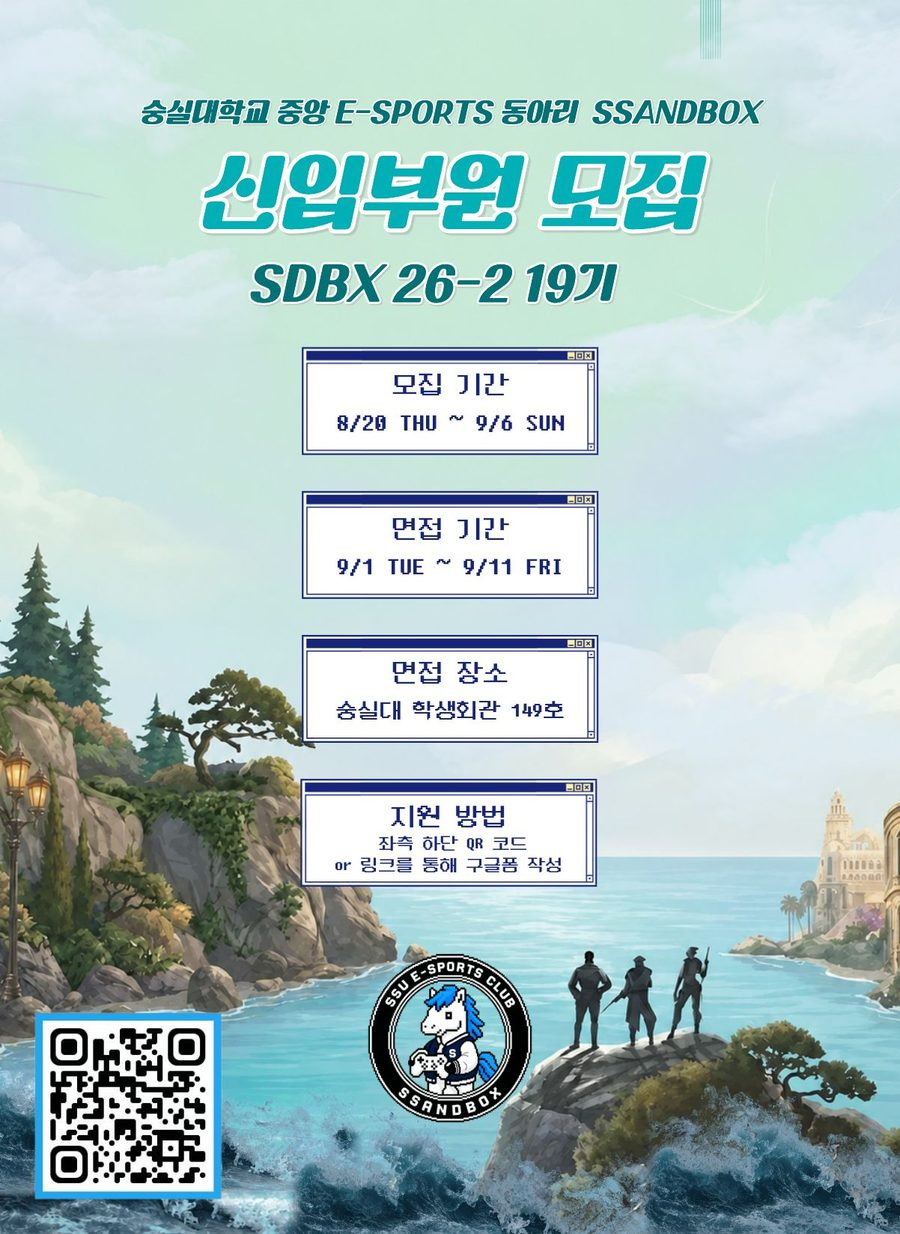
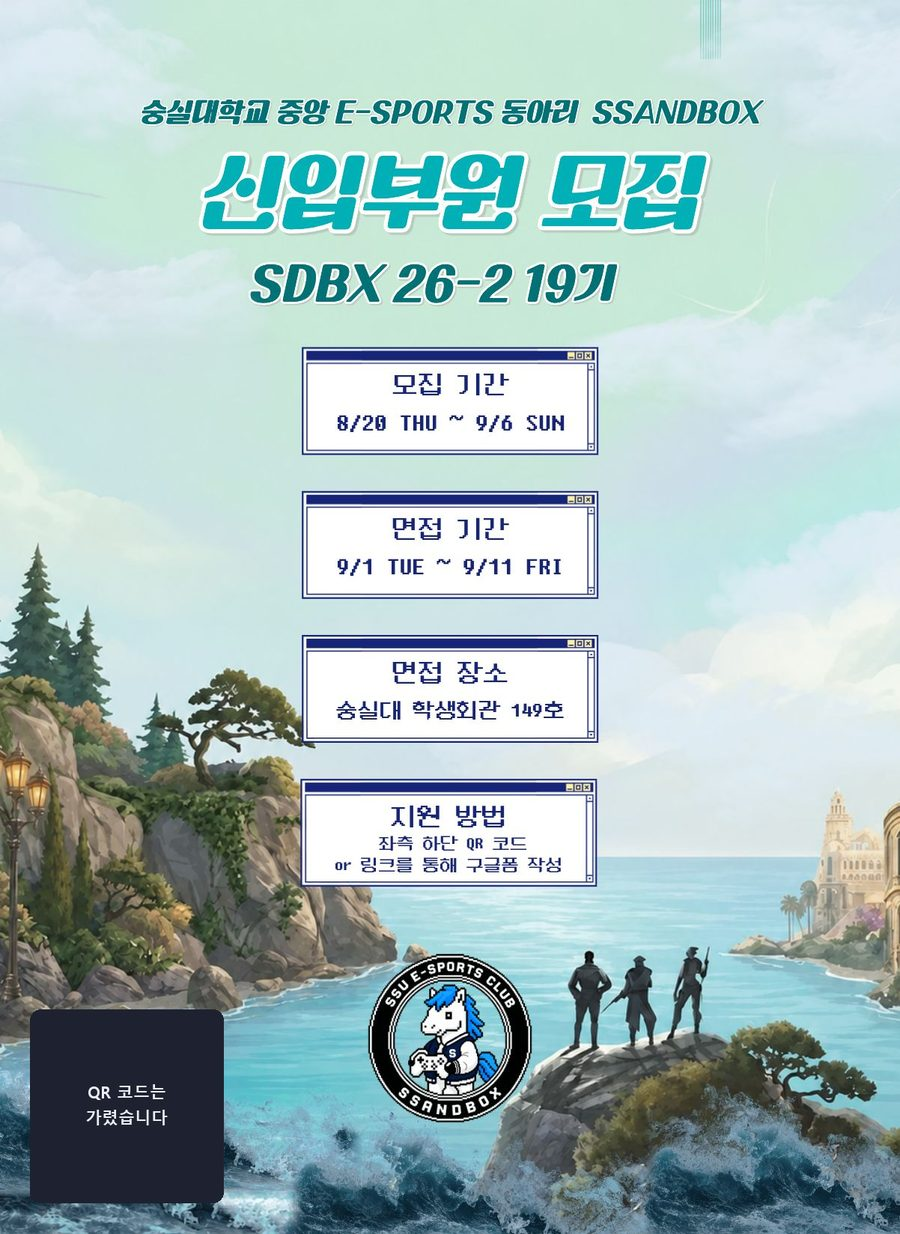
포스터의 QR 코드도 가림, README 포스터 크기 축소

Changed region(s): [[0.0311, 0.8006, 0.2489, 0.9854]]

diff --git a/index.html b/index.html
@@ -176,8 +176,9 @@
 <p>Retargeting: vert_control 1.0 → 0.8로 Corner 부근 과보정 방지</p>
 <p>Hierman으로 Template 생성 후 Corexec으로 Recipe를 적용해 OPC 수행, Contour simulation 후 CD 측정</p></div></section><section class="shs"><h3>문제 해결 과정</h3><div class="shb"><p>파라미터마다 영향을 주는 영역이 달라, 변경 항목별로 예상 결과를 먼저 세운 뒤 실제 측정값과 대조했습니다.</p>
 <p>두 recipe의 Contour를 같은 위치에서 측정해 Segment 세분화 → Corner·Edge 보정 정밀도 향상이라는 가설을 확인했습니다.</p></div></section><section class="shs"><h3>결과</h3><div class="shb res"><p>Split recipe 적용으로 <strong>Corner Rounding 24.39nm → 19.1nm</strong>, Mask–Contour CD 차이 5nm → 3.5nm, Contour narrowing 1.5nm → 1nm로 개선됐고 Line Edge Roughness도 감소했습니다.</p></div></section><section class="shs"><h3>증빙 자료</h3><div class="shev"><a class="btn" href="https://gamedh823-cmd.github.io/portfolio/projects/lithography-opc-pbl/lithography_pbl.pdf" target="_blank" rel="noopener">PBL 과제 발표자료 (PDF)</a><a class="btn ghost" href="https://github.com/gamedh823-cmd/portfolio/blob/main/projects/lithography-opc-pbl/README.md" target="_blank" rel="noopener">GitHub README</a></div></section></template>
-<template id="t-club-design"><div class="shtags"><span class="tag">포스터</span><span class="tag">대회 UI</span><span class="tag">로고</span><span class="tag">바이브코딩</span></div><section class="shs"><h3>무엇을</h3><div class="shb"><p>학교 중앙 E-SPORTS 동아리의 홍보국장으로서, 신입부원 모집과 대표팀 모집 포스터, 개강총회 표지 및 자료, 대학 교류전 대진 화면, 자체 리그 로고(SFL, SOL) 등을 만들었습니다.</p></div></section><section class="shs"><h3>어떻게</h3><div class="shb"><p>바이브코딩, 즉 AI 도구에 원하는 결과를 말로 지시해 만드는 방식으로 만든 것이 많습니다.</p></div></section><section class="shs"><h3>작업물</h3><div class="shb"><div class="gal wide"><figure><img src="./assets/club/opening-ceremony-wide.jpg" alt="개강총회 표지 (2026.09.11)" loading="lazy"><figcaption>개강총회 표지 (2026.09.11)</figcaption></figure><figure><img src="./assets/club/ow-exchange-thumb.jpg" alt="오버워치 대학교류전 대진 화면 (6개 대학 동아리)" loading="lazy"><figcaption>오버워치 대학교류전 대진 화면 (6개 대학 동아리)</figcaption></figure></div><div class="gal"><figure><img src="./assets/club/recruit-poster.jpg" alt="신입부원 모집 포스터 (SDBX 26-2 19기)" loading="lazy"><figcaption>신입부원 모집 포스터 (SDBX 26-2 19기)</figcaption></figure><figure><img src="./assets/club/lol-team-poster.jpg" alt="리그 오브 레전드 대표팀 모집 포스터" loading="lazy"><figcaption>리그 오브 레전드 대표팀 모집 포스터</figcaption></figure><figure><img src="./assets/club/valorant-team-poster.jpg" alt="발로란트 대표팀 모집 포스터" loading="lazy"><figcaption>발로란트 대표팀 모집 포스터</figcaption></figure><figure><img src="./assets/club/overwatch-team-poster.jpg" alt="오버워치 대표팀 모집 포스터" loading="lazy"><figcaption>오버워치 대표팀 모집 포스터</figcaption></figure></div><div class="gal pair"><figure><img src="./assets/club/logo-sfl.jpg" alt="자체 리그 로고 SFL (SSANDBOX Frontier League)" loading="lazy"><figcaption>자체 리그 로고 SFL (SSANDBOX Frontier League)</figcaption></figure><figure><img src="./assets/club/logo-sol.jpg" alt="자체 리그 로고 SOL (SSANDBOX Overwatch League)" loading="lazy"><figcaption>자체 리그 로고 SOL (SSANDBOX Overwatch League)</figcaption></figure></div><p style="margin-top:14px">포스터 하단의 문의 연락처는 개인정보라 가려서 올렸습니다.</p></div></section></template>
+<template id="t-club-design"><div class="shtags"><span class="tag">포스터</span><span class="tag">대회 UI</span><span class="tag">로고</span><span class="tag">바이브코딩</span></div><section class="shs"><h3>무엇을</h3><div class="shb"><p>학교 중앙 E-SPORTS 동아리의 홍보국장으로서, 신입부원 모집과 대표팀 모집 포스터, 개강총회 표지 및 자료, 대학 교류전 대진 화면, 자체 리그 로고(SFL, SOL) 등을 만들었습니다.</p></div></section><section class="shs"><h3>어떻게</h3><div class="shb"><p>바이브코딩, 즉 AI 도구에 원하는 결과를 말로 지시해 만드는 방식으로 만든 것이 많습니다.</p></div></section><section class="shs"><h3>작업물</h3><div class="shb"><div class="gal wide"><figure><img src="./assets/club/opening-ceremony-wide.jpg" alt="개강총회 표지 (2026.09.11)" loading="lazy"><figcaption>개강총회 표지 (2026.09.11)</figcaption></figure><figure><img src="./assets/club/ow-exchange-thumb.jpg" alt="오버워치 대학교류전 대진 화면 (6개 대학 동아리)" loading="lazy"><figcaption>오버워치 대학교류전 대진 화면 (6개 대학 동아리)</figcaption></figure></div><div class="gal"><figure><img src="./assets/club/recruit-poster.jpg" alt="신입부원 모집 포스터 (SDBX 26-2 19기)" loading="lazy"><figcaption>신입부원 모집 포스터 (SDBX 26-2 19기)</figcaption></figure><figure><img src="./assets/club/lol-team-poster.jpg" alt="리그 오브 레전드 대표팀 모집 포스터" loading="lazy"><figcaption>리그 오브 레전드 대표팀 모집 포스터</figcaption></figure><figure><img src="./assets/club/valorant-team-poster.jpg" alt="발로란트 대표팀 모집 포스터" loading="lazy"><figcaption>발로란트 대표팀 모집 포스터</figcaption></figure><figure><img src="./assets/club/overwatch-team-poster.jpg" alt="오버워치 대표팀 모집 포스터" loading="lazy"><figcaption>오버워치 대표팀 모집 포스터</figcaption></figure></div><div class="gal pair"><figure><img src="./assets/club/logo-sfl.jpg" alt="자체 리그 로고 SFL (SSANDBOX Frontier League)" loading="lazy"><figcaption>자체 리그 로고 SFL (SSANDBOX Frontier League)</figcaption></figure><figure><img src="./assets/club/logo-sol.jpg" alt="자체 리그 로고 SOL (SSANDBOX Overwatch League)" loading="lazy"><figcaption>자체 리그 로고 SOL (SSANDBOX Overwatch League)</figcaption></figure></div><p style="margin-top:14px">포스터의 문의 연락처(실명·전화번호)와 지원서 QR 코드는 가려서 올렸습니다.</p></div></section></template>
 <!--/PROJECT-TEMPLATES-->
+
 
 
 

diff --git a/README.md b/README.md
@@ -138,12 +138,12 @@
 
 ### 2. 포스터와 화면 속 이름·전화번호는 가려서 올렸습니다
 
-동아리 홍보국장으로서 만든 포스터에는 회장의 실명과 전화번호, 인스타그램 아이디가 들어 있었습니다. 원본은 올리지 않고, 해당 부분을 덮은 이미지만 올렸습니다.
+동아리 홍보국장으로서 만든 포스터에는 회장의 실명과 전화번호, 인스타그램 아이디, 그리고 지원서(구글 폼)로 연결되는 QR 코드가 들어 있었습니다. 원본은 올리지 않고, 해당 부분을 덮은 이미지만 올렸습니다.
 
 | 대표팀 모집 포스터 |
 |---|
-| ![문의 연락처를 가린 포스터](assets/club/valorant-team-poster.jpg) |
-| 문의 박스(실명·전화번호·인스타그램)를 "문의 연락처는 개인정보라 가렸습니다"로 덮음 |
+| <img src="assets/club/valorant-team-poster.jpg" width="260" alt="문의 연락처와 QR 코드를 가린 포스터"> |
+| 문의 박스(실명·전화번호·인스타그램)와 지원서 QR 코드를 덮음. 신입부원 모집 포스터 등 다른 포스터의 QR 코드도 모두 가렸습니다 |
 
 - 이름이나 번호가 들어 있어 가려야 하는 다른 자료(이용수칙, 대회 팀 소개 화면 등)는 아예 올리지 않았습니다.
 - 올리기 전과 후에 저장소 전체에서 전화번호 형태, 해당 이름, 인스타그램 아이디를 검색해 남아 있지 않은지 확인했습니다.
